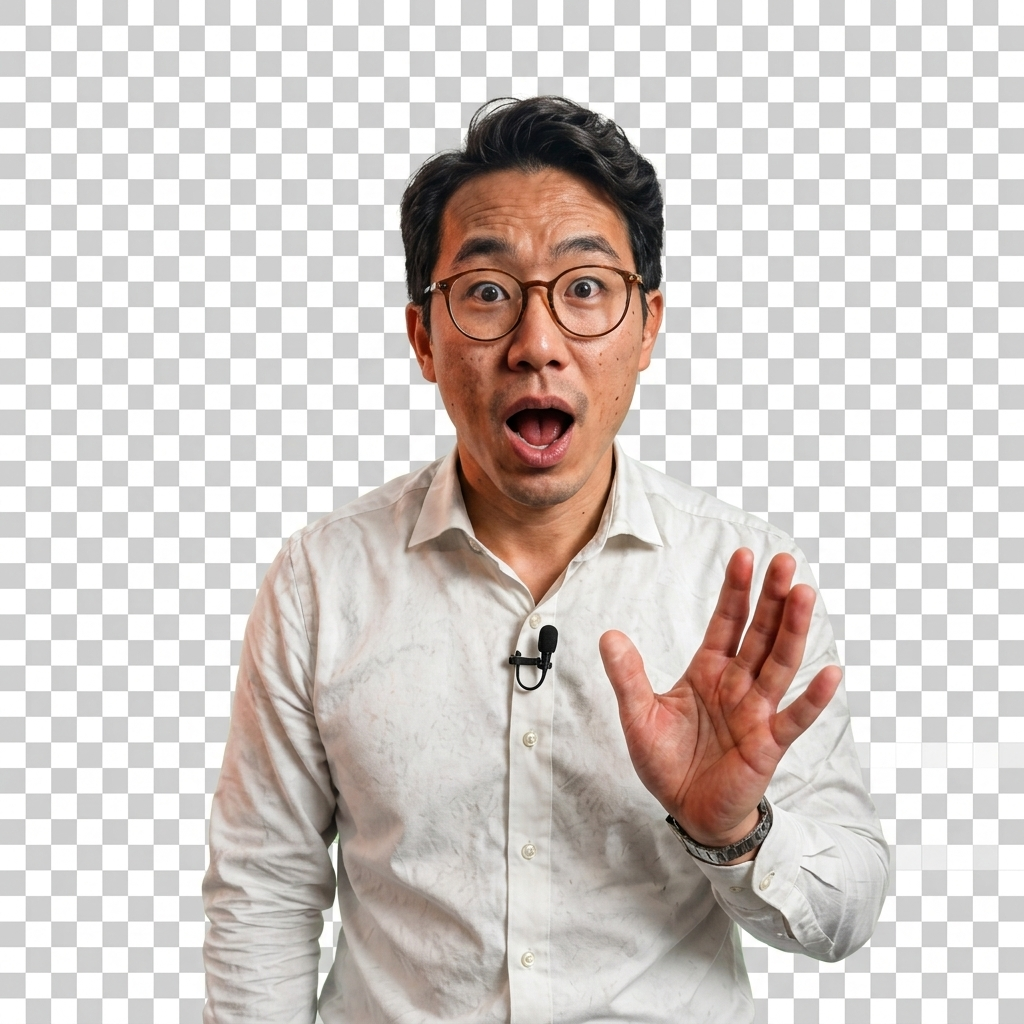
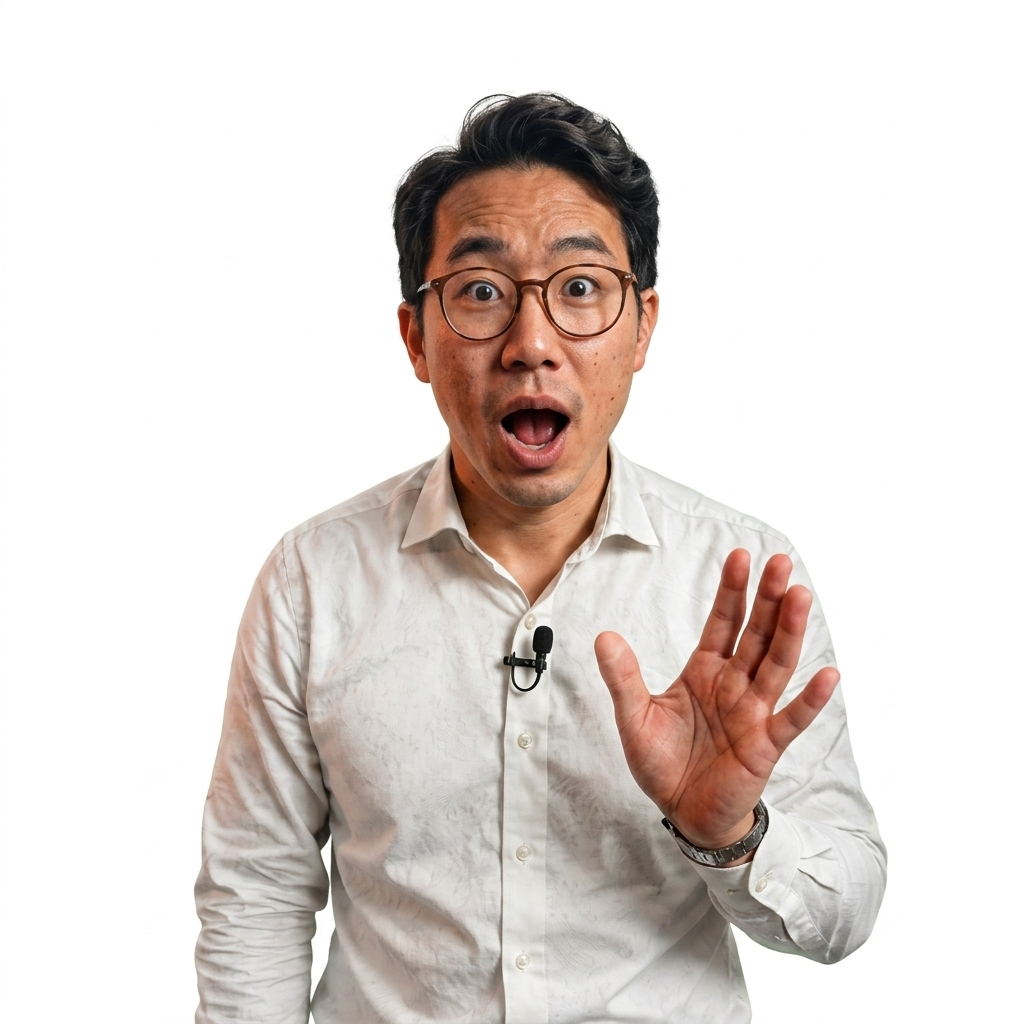
Fix person image: clean white background, proper positioning with mix-blend-mode

diff --git a/src/styles/steps.css b/src/styles/steps.css
@@ -61,13 +61,14 @@
 /* Person character overlay */
 .hero-person-img {
   position: absolute;
-  left: -40%;
-  bottom: -10px;
-  width: 80%;
-  max-width: 380px;
+  left: -30%;
+  bottom: 0;
+  width: 65%;
+  max-width: 320px;
   height: auto;
   z-index: 2;
-  filter: drop-shadow(0 8px 20px rgba(0,0,0,0.15));
+  mix-blend-mode: multiply;
+  filter: drop-shadow(0 4px 16px rgba(0,0,0,0.1));
   animation: floatUp 600ms ease forwards;
 }
 
